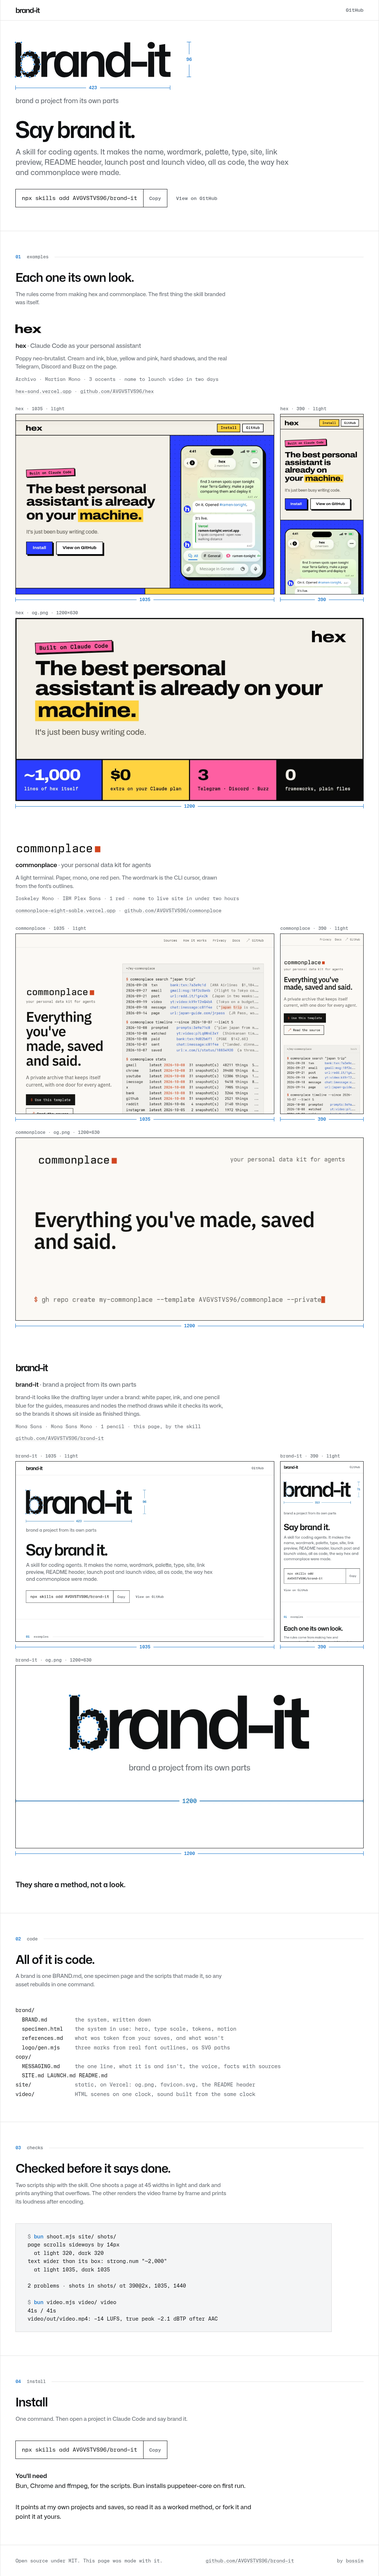
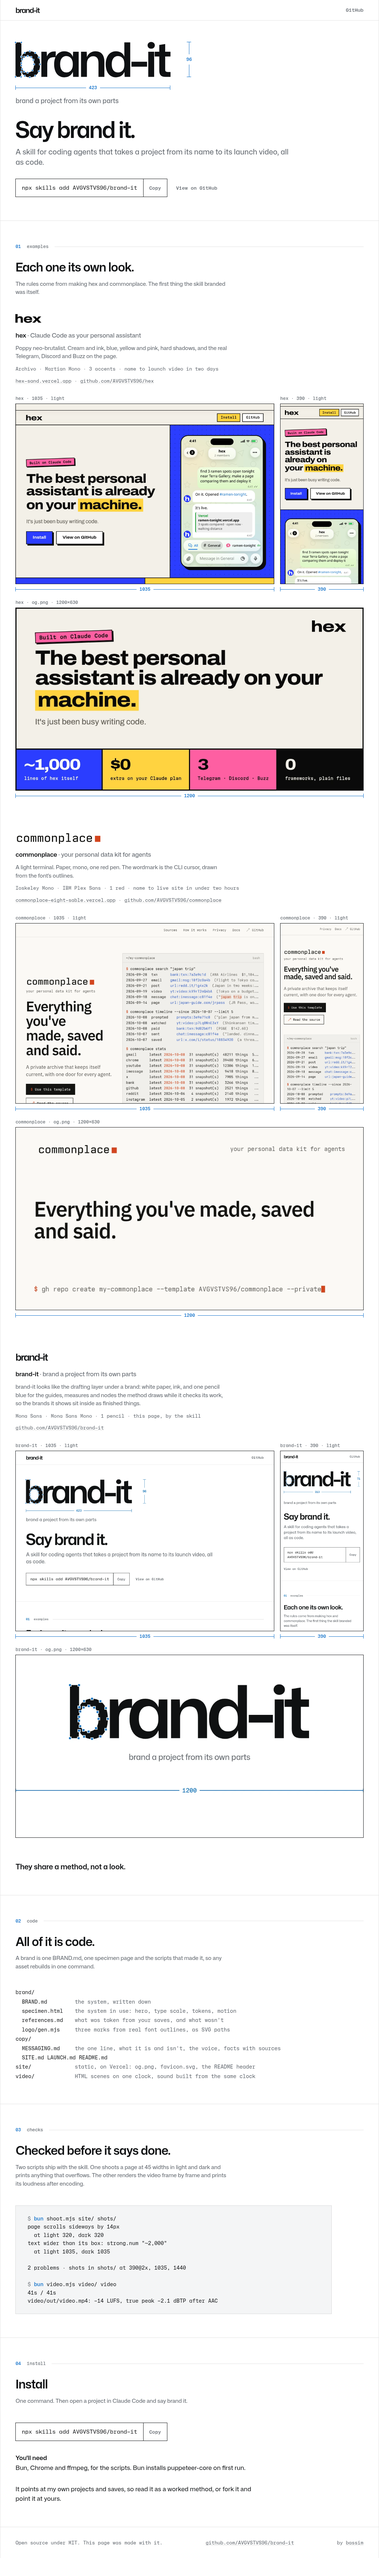
Site: the hero sub line in one sentence, brand-it's OG card keeps only its own 1200, fresh self shots

diff --git a/apps/site/index.html b/apps/site/index.html
@@ -58,7 +58,7 @@
   </figure>
   <p class="tagline">brand a project from its own parts</p>
   <h1 id="hero-title">Say brand it.</h1>
-  <p class="lede">A skill for coding agents. It makes the name, wordmark, palette, type, site, link preview, README header, launch post and launch video, all as code, the way hex and commonplace were made.</p>
+  <p class="lede">A skill for coding agents that takes a project from its name to its launch video, all as code.</p>
   <div class="install">
     <div class="cmd"><pre>npx skills add AVGVSTVS96/brand-it</pre><button type="button" data-copy="npx skills add AVGVSTVS96/brand-it">Copy</button></div>
     <a href="https://github.com/AVGVSTVS96/brand-it">View on GitHub</a>
@@ -148,7 +148,6 @@
         <figure class="framed span">
           <figcaption class="label">brand-it · og.png · 1200×630</figcaption>
           <div class="frame"><img src="/examples/brand-it-og.webp" width="1200" height="630" alt="this page's link preview image"></div>
-          <div class="dim h"><span>1200</span></div>
         </figure>
         <template id="video">
           <figure class="framed span">
